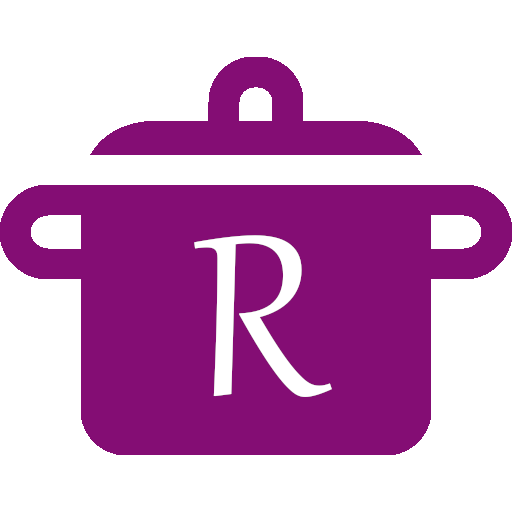
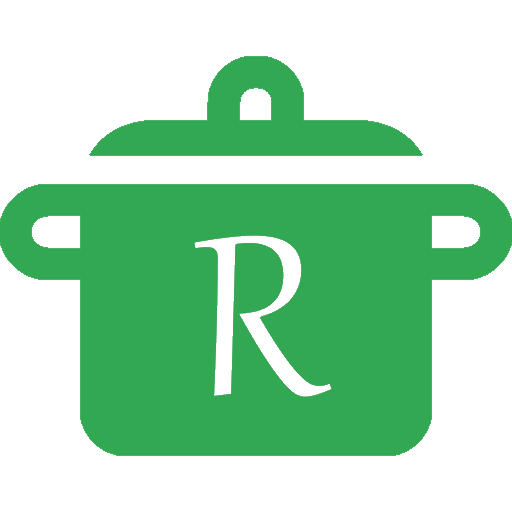
theme change

diff --git a/src/components/recipe/recipe.tsx b/src/components/recipe/recipe.tsx
@@ -37,13 +37,13 @@ export const Recipe: React.FC<RecipeProps> = ({
   const navigation = useNavigation()
 
   React.useLayoutEffect(() => {
-    console.log("Add button")
     navigation.setOptions({
-      headerRight: () => (
-        <Button icon="cart" onPress={saveAllArticles}>
-          Añadir ({ingredients.length})
-        </Button>
-      )
+      headerRight: () =>
+        ingredients && (
+          <Button icon="cart" onPress={saveAllArticles}>
+            Añadir ({ingredients?.length})
+          </Button>
+        )
     })
   }, [navigation, lists])
 
@@ -55,7 +55,6 @@ export const Recipe: React.FC<RecipeProps> = ({
 
   const checkDefaultList = () => {
     const recipeList = lists.find((l) => l.name === recipeName)
-    console.log(lists)
     if (recipeList) {
       setSelectedList(recipeList.id)
       setMenuLists(lists)

diff --git a/src/components/recipe/listMenu.tsx b/src/components/recipe/listMenu.tsx
@@ -8,6 +8,7 @@ import {
   Provider
 } from "react-native-paper"
 import { styles } from "../styles"
+import { theme } from "../../../theme"
 
 type ListMenuProps = {
   isVisible: boolean
@@ -27,7 +28,7 @@ export const ListMenu: React.FC<ListMenuProps> = ({
   onCheckList
 }) => {
   return (
-    <Provider>
+    <Provider theme={theme}>
       <View>
         <Portal>
           <Dialog visible={isVisible} onDismiss={onDismissDialog}>
@@ -53,7 +54,7 @@ export const ListMenu: React.FC<ListMenuProps> = ({
               ))}
             </Dialog.Content>
             <Dialog.Actions>
-              <Button mode="contained" onPress={() => onAccept()}>
+              <Button mode="contained" onPress={onAccept}>
                 Aceptar
               </Button>
             </Dialog.Actions>

diff --git a/src/components/styles.ts b/src/components/styles.ts
@@ -1,5 +1,4 @@
 import { StyleSheet } from "react-native"
-import { red600 } from "react-native-paper/lib/typescript/styles/colors"
 
 export const styles = StyleSheet.create({
   card: {
@@ -23,14 +22,19 @@ export const styles = StyleSheet.create({
     color: "#fff",
     textShadowColor: "#000",
     textShadowRadius: 2,
-    textShadowOffset: { width: 2, height: 2 }
+    textShadowOffset: { width: 2, height: 2 },
+    paddingLeft: 3
   },
   cardImage: {
     width: "100%",
     height: 150,
     justifyContent: "space-between",
-    paddingBottom: 3,
-    paddingLeft: 3
+    paddingBottom: 3
+  },
+  difficultyRow: {
+    flexDirection: "row",
+    paddingLeft: 4,
+    paddingBottom: 2
   },
   container: {
     backgroundColor: "#fff",

diff --git a/src/components/recipe/difficulty.tsx b/src/components/recipe/difficulty.tsx
@@ -1,6 +1,7 @@
 import React from "react"
 import { StyleSheet, View } from "react-native"
 import { Avatar } from "react-native-paper"
+import { styles } from "../styles"
 
 export const Difficulty: React.FC<{ value: number }> = ({ value }) => {
   let color = "red"
@@ -11,7 +12,7 @@ export const Difficulty: React.FC<{ value: number }> = ({ value }) => {
   }
 
   return (
-    <View style={styles.container}>
+    <View style={styles.difficultyRow}>
       {[...Array(value)].map((element, index) => (
         <Avatar.Icon
           size={16}
@@ -23,9 +24,3 @@ export const Difficulty: React.FC<{ value: number }> = ({ value }) => {
     </View>
   )
 }
-
-const styles = StyleSheet.create({
-  container: {
-    flexDirection: "row"
-  }
-})

diff --git a/App.tsx b/App.tsx
@@ -11,6 +11,7 @@ import { MainScreen } from "./src/screens/mainScreen"
 import { ShoppingListScreen } from "./src/screens/shoppingListScreen"
 import { useDatabase } from "./src/hooks/useDatabase"
 import { ListsContextProvider } from "./src/context/ListsContext"
+import { theme } from "./theme"
 
 function App() {
   const [index, setIndex] = React.useState(0)
@@ -29,7 +30,7 @@ function App() {
   if (isDBReady) {
     return (
       <ListsContextProvider>
-        <PaperProvider>
+        <PaperProvider theme={theme}>
           <BottomNavigation
             navigationState={{ index, routes }}
             onIndexChange={setIndex}

diff --git a/src/components/shoppingList/ListSelector.tsx b/src/components/shoppingList/ListSelector.tsx
@@ -100,7 +100,7 @@ export const ListSelector: React.FC = () => {
                     left={(props) => (
                       <List.Icon
                         {...props}
-                        color={Colors.deepPurple500}
+                        color={Colors.green500}
                         icon="clipboard-list-outline"
                       />
                     )}

diff --git a/src/components/recipe/recipesList.tsx b/src/components/recipe/recipesList.tsx
@@ -1,4 +1,4 @@
-import React, { useState, useEffect } from "react"
+import React, { useState } from "react"
 import { FlatList, SafeAreaView, TouchableOpacity } from "react-native"
 import { ActivityIndicator } from "react-native-paper"
 import { useRecipes } from "../../hooks/useRecipes"

diff --git a/theme.ts b/theme.ts
@@ -1,0 +1,13 @@
+import { DefaultTheme } from "react-native-paper"
+
+console.log(DefaultTheme.colors)
+
+export const theme = {
+  ...DefaultTheme,
+  roundness: 2,
+  colors: {
+    ...DefaultTheme.colors,
+    primary: "#32a852",
+    accent: "#015e1a"
+  }
+}
